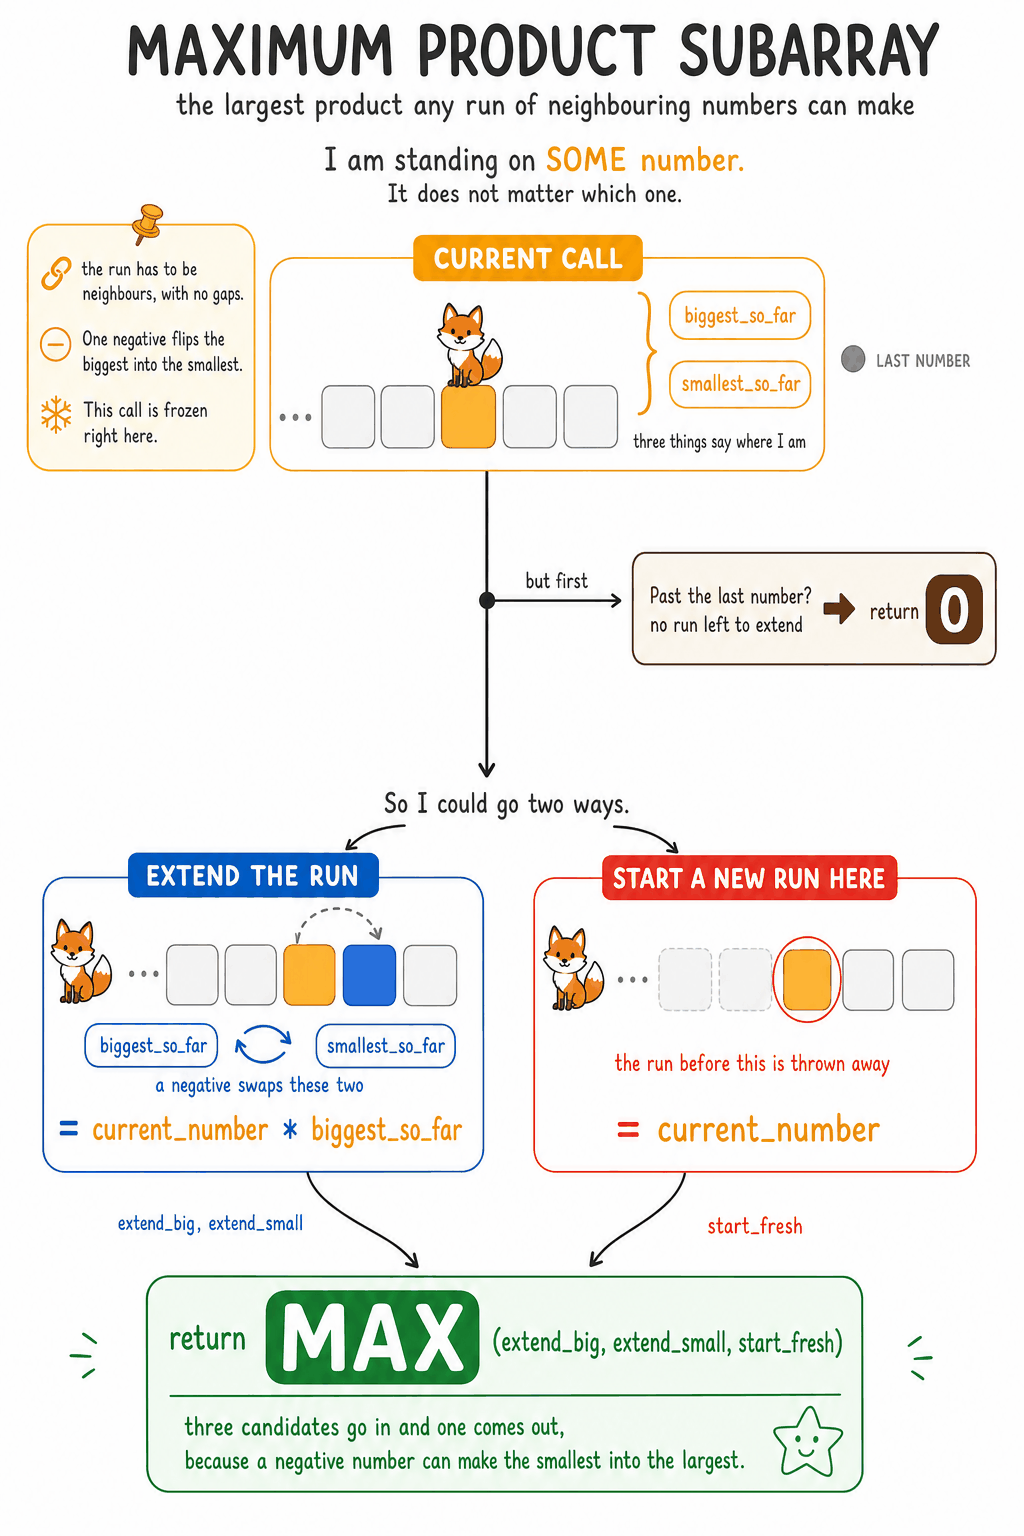
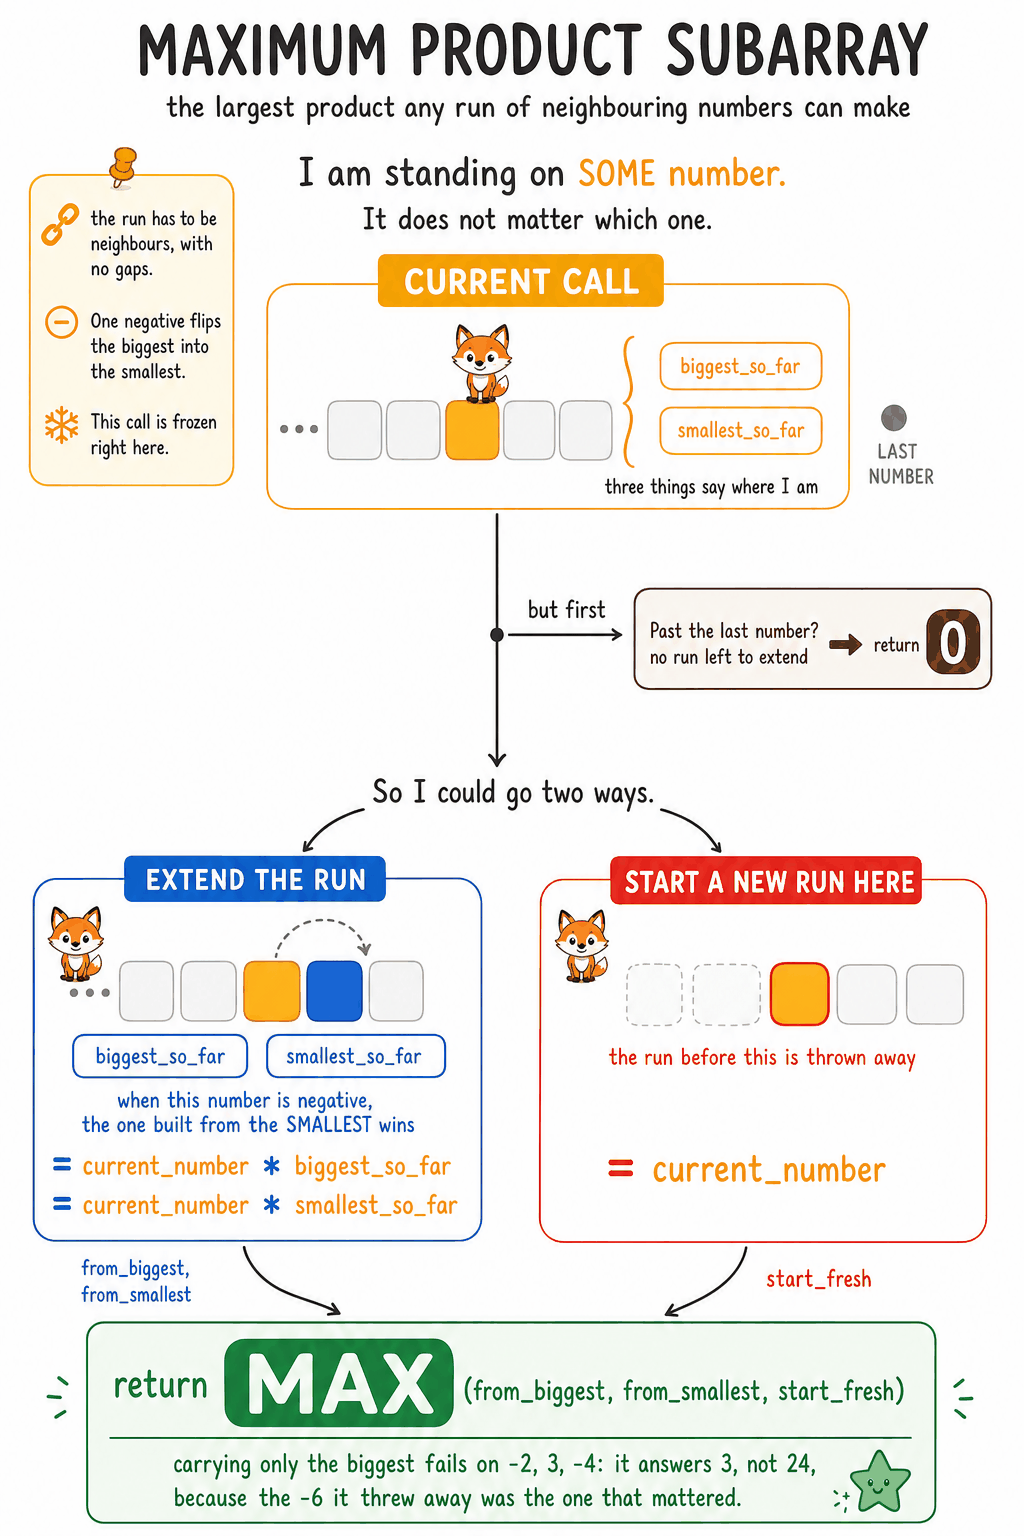
Fix the Maximum Product card: no swap, two products, honest names
Three things were wrong with it, all of which hid the one idea the card
exists to teach.

The blue panel showed a single product and a swap arrow between the two
pills, which reads as "reorder the variables, then multiply". No such step
exists. Both products are computed and the winner is decided later at the
MAX. The panel now shows both lines as a matched pair and draws no arrow.

extend_big and extend_small appeared first on the arrow and then inside the
MAX, defined nowhere on the page. Worse, the names invert on exactly the
input that matters: with numbers -2, 3, -4 at the last position,
extend_big is -12 and extend_small is 24. They are now from_biggest and
from_smallest, which say which variable the product was built from rather
than claiming how large it turns out.

The card stated the conclusion, that a negative flips biggest and smallest,
without the evidence. The two green lines now carry the failing example:
one variable answers 3 on -2, 3, -4 where the true answer is 24, because
the -6 it discarded was the useful one. That discarded value is the whole
reason the second variable exists, and a reader who sees it can derive
smallest_so_far instead of memorising it.

choice_card.py gains two-line panel bodies for the case where a panel
genuinely produces two values. Two parallel lines of equal length are not
the same thing as one line wrapping, which is still banned.

diff --git a/dp/choice_specs.py b/dp/choice_specs.py
@@ -229,11 +229,20 @@ pill, and it is the thing a coder forgets.""",
     "a": {"chip": "EXTEND THE RUN",
           "picture": """   Inside, the same five cells as above with the cell immediately after the AMBER one
    painted solid BLUE, and a dashed grey arc from the amber cell landing on it.
-   Under the row, the two pills redrawn in BLUE, with a small blue swap arrow curling
-   between them, and one small blue caption: "a negative swaps these two"
-   The fox stands just outside the row on its left.""",
-          "line": "current_number * biggest_so_far", "hi": "*",
-          "amber": ["current_number", "biggest_so_far"], "var": "extend_big, extend_small"},
+   Under the row, the two pills redrawn in BLUE, side by side, with NO arrow of any
+   kind between them and nothing swapping places. Under the pills, one small blue
+   caption: "when this number is negative, the one built from the SMALLEST wins"
+   The fox stands just outside the row on its left.
+
+   THERE IS NO SWAP ON THIS PAGE. Nothing is reordered before multiplying. Both
+   products are worked out and the winner is decided later, at the MAX. Drawing a
+   swap arrow between the two pills would claim a step that does not exist, which is
+   the single most misleading thing this card could do.""",
+          "lines": ["current_number * biggest_so_far",
+                    "current_number * smallest_so_far"],
+          "hi": "*",
+          "amber": ["current_number", "biggest_so_far", "smallest_so_far"],
+          "var": "from_biggest, from_smallest"},
     "b": {"chip": "START A NEW RUN HERE",
           "picture": """   Inside, the same five cells as above with the AMBER cell ringed in RED and every
    cell before it faded, so the run plainly begins again at this position.
@@ -242,12 +251,24 @@ pill, and it is the thing a coder forgets.""",
           "line": "current_number", "hi": "current_number",
           "amber": ["current_number"], "var": "start_fresh"},
     "op": {"kind": "call", "name": "max", "glyph": "MAX",
-           "args": "extend_big, extend_small, start_fresh"},
-    "why": ["three candidates go in and one comes out,",
-            "because a negative number can make the smallest into the largest."],
-    "numbers": ['the "0" in "return 0", because that is what the code returns'],
-    "note_extra": ("THIS IS THE ONE CARD WHERE THE OPERATOR TAKES THREE ARGUMENTS. The left "
-                   "panel produces TWO values, not one, so its arrow carries two names."),
+           "args": "from_biggest, from_smallest, start_fresh"},
+    "why": ["carrying only the biggest fails on -2, 3, -4: it answers 3, not 24,",
+            "because the -6 it threw away was the one that mattered."],
+    "numbers": ['the "0" in "return 0", because that is what the code returns',
+                'the "-2, 3, -4" and the "3", "24" and "-6" in the two green lines under '
+                'the operator, because that failing example IS the lesson of this card '
+                'and it cannot be shown as a picture'],
+    "note_extra": ("THIS IS THE ONE CARD WHERE THE OPERATOR TAKES THREE ARGUMENTS, and the "
+                   "left panel produces TWO values rather than one. Every name inside the "
+                   "MAX must be defined by a line the reader can see above it: "
+                   "from_biggest and from_smallest by the two lines in the blue panel, and "
+                   "start_fresh by the single line in the red panel. A name that appears "
+                   "first inside the MAX has come from nowhere.\n\n"
+                   "THE NAMES SAY WHERE EACH PRODUCT CAME FROM, NOT HOW BIG IT IS. "
+                   "from_biggest is the product built FROM biggest_so_far, and when the "
+                   "current number is negative that product is the smaller of the two. "
+                   "Naming it extend_big would be wrong for exactly the case this card "
+                   "exists to teach."),
 },
 
 "stock": {

diff --git a/dp/choice_card.py b/dp/choice_card.py
@@ -53,6 +53,34 @@ produces a value, and the arrow below says what that value is called, so the nam
 is never written twice."""
 
 
+def body_block(s, branch, colour):
+    """The code inside a panel.
+
+    Almost every panel computes one value and gets one line. A panel that
+    genuinely produces TWO values gets two lines of the same shape, which is a
+    different thing from one line wrapping: parallel lines read as a pair, a
+    wrapped line reads as ragged.
+    """
+    prefix = body_prefix(s)
+    if branch.get("lines"):
+        listed = "\n".join(f'         "{prefix} {ln}"' for ln in branch["lines"])
+        return f"""   Under the picture, TWO lines of code stacked one above the other, in charcoal,
+   both set at the same size and both starting at the same left edge so they read as
+   a matched pair:
+{listed}
+   Each line opens with its own "{prefix}" in {colour} and bold, and "{branch['hi']}"
+   is in {colour}.{amber_terms(branch)}
+
+   THIS PANEL PRODUCES TWO VALUES, NOT ONE, which is why it has two lines. They are
+   not one line wrapped. They must be the same length and the same size, one under
+   the other, and neither may be smaller than the other."""
+    return f"""   Under the picture, ONE SINGLE LINE and never two, in charcoal, set large and on
+   one line without wrapping:
+      "{prefix} {branch['line']}"
+   with the leading "{prefix}" in {colour} and bold, and "{branch['hi']}" in
+   {colour}.{amber_terms(branch)}"""
+
+
 def body_prefix(s):
     """An if/else panel returns. A choice panel binds."""
     return "return" if s.get("mode") == "ifelse" else "="
@@ -66,11 +94,7 @@ on this card. Do not invent a right hand box to balance the page."""
     return f"""RIGHT BOX, RED FAMILY. A rounded box with a thin RED outline and a white fill.
 On its top edge, a solid RED chip with bold white capitals: "{s['b']['chip']}"
 {branch_picture(s, s['b'], 'RED')}{panel_extras(s['b'])}
-   Under the picture, ONE SINGLE LINE and never two, in charcoal, set large and on
-   one line without wrapping:
-      "{body_prefix(s)} {s['b']['line']}"
-   with the leading "{body_prefix(s)}" in RED and bold, and "{s['b']['hi']}" in
-   RED.{amber_terms(s['b'])}"""
+{body_block(s, s['b'], 'RED')}"""
 
 
 def result_block(s):
@@ -568,11 +592,7 @@ built from scratch instead of copied, and that is the mistake to avoid.
 LEFT BOX, BLUE FAMILY. A rounded box with a thin BLUE outline and a white fill.
 On its top edge, a solid BLUE chip with bold white capitals: "{s['a']['chip']}"
 {branch_picture(s, s['a'], 'BLUE')}{panel_extras(s['a'])}
-   Under the picture, ONE SINGLE LINE and never two, in charcoal, set large and on
-   one line without wrapping:
-      "{body_prefix(s)} {s['a']['line']}"
-   with the leading "{body_prefix(s)}" in BLUE and bold, and "{s['a']['hi']}" in
-   BLUE.{amber_terms(s['a'])}
+{body_block(s, s['a'], 'BLUE')}
 
 {right_panel(s)}
 
